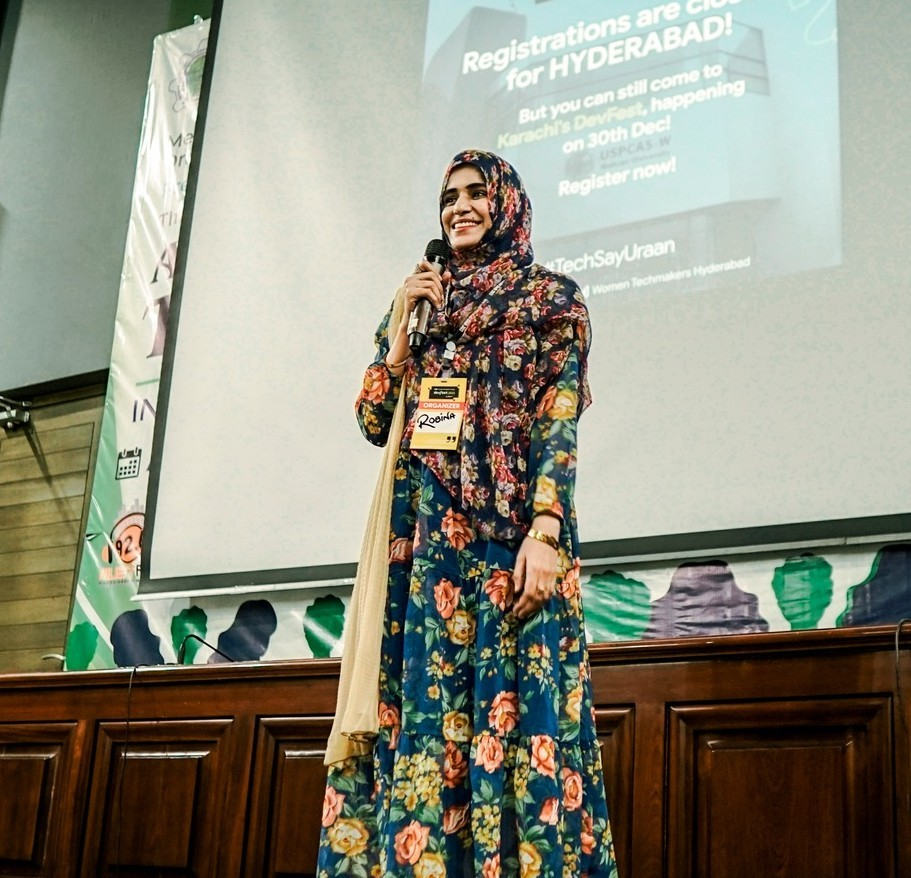
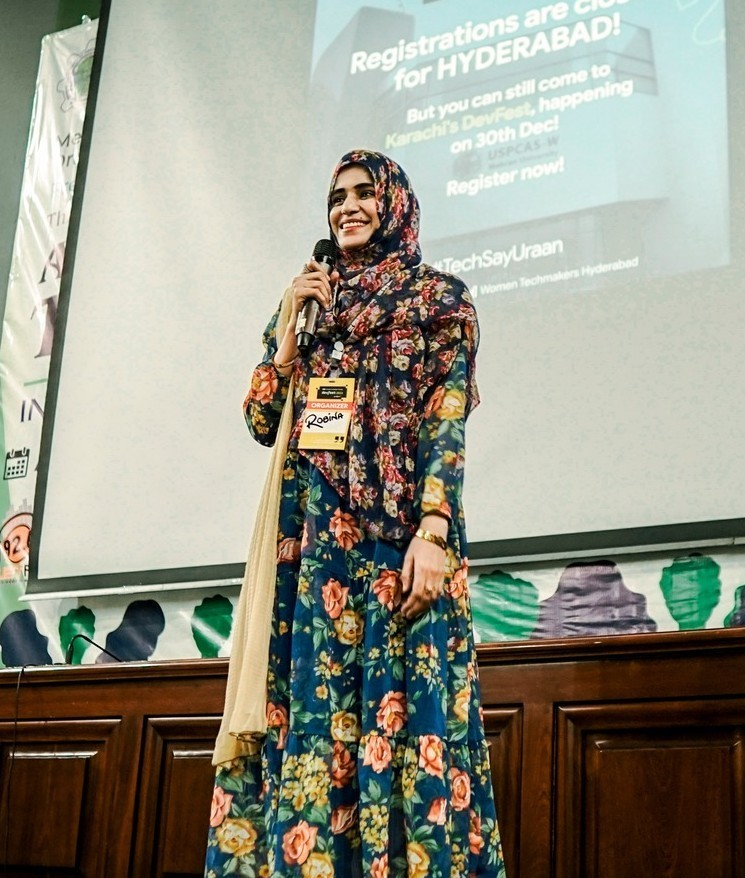
Update: Added heart and link to Hasnain KK in footer

diff --git a/src/data.js b/src/data.js
@@ -1,4 +1,7 @@
 import robinaImg from './WTM Events Pictures/Robina Picture/Robina Mirbahar.jpg';
+import hasnainImg from './WTM Events Pictures/IWD 26 Team/Hasnain KK.jpeg';
+import tunhinaImg from './WTM Events Pictures/IWD 26 Team/Tunhina.jpeg';
+import hurainImg from './WTM Events Pictures/IWD 26 Team/Hurain.jpeg';
 import iwd26Img from './WTM Events Pictures/IWD26/Event lookup.jpg';
 import impactFutureImg from './WTM Events Pictures/RAH00576.jpg';
 import accelerateActionImg from './WTM Events Pictures/478403869_596286476700737_8847670728925164592_n.jpg';
@@ -24,7 +27,7 @@ export const sharedTeamData = [
     role: 'Organizer',
     gender: 'male',
     bio: 'Hasnain is a technical architect overseeing the expansion of Women Techmakers Hyderabad. His focus is on establishing robust technical pipelines and promoting inclusive leadership across Sindh. He is deeply committed to empowering juniors and mapping community growth with real-world developer tools.',
-    photoUrl: 'https://ui-avatars.com/api/?name=Hasnain+KK&background=EAEAEA&color=4285F4&size=400&bold=true',
+    photoUrl: hasnainImg,
     socials: [
       { platform: 'LinkedIn', url: '#' },
       { platform: 'GitHub', url: '#' }
@@ -32,12 +35,12 @@ export const sharedTeamData = [
   },
   {
     id: 3,
-    slug: 'tunjina',
-    name: 'Tunjina',
+    slug: 'tunhina',
+    name: 'Tunhina',
     role: 'Organizer',
     gender: 'female',
-    bio: 'Tunjina serves as a lead organizer for Women Techmakers Hyderabad, focusing on community outreach and educational curriculum design. She is passionate about closing the gender gap in technology through accessible mentorship and technical skill-sharing.',
-    photoUrl: 'https://ui-avatars.com/api/?name=Tunjina&background=EAEAEA&color=00C4A3&size=400&bold=true',
+    bio: 'Tunhina serves as a lead organizer for Women Techmakers Hyderabad, focusing on community outreach and educational curriculum design. She is passionate about closing the gender gap in technology through accessible mentorship and technical skill-sharing.',
+    photoUrl: tunhinaImg,
     socials: [
       { platform: 'LinkedIn', url: '#' }
     ]
@@ -49,7 +52,7 @@ export const sharedTeamData = [
     role: 'Organizer',
     gender: 'female',
     bio: 'Hurain is a core organizer at WTM Hyderabad, facilitating large-scale technical gatherings and local meetups. She works on optimizing the attendee experience and ensuring every event fosters a culture of inclusivity and professional growth.',
-    photoUrl: 'https://ui-avatars.com/api/?name=Hurain&background=EAEAEA&color=1967D2&size=400&bold=true',
+    photoUrl: hurainImg,
     socials: [
       { platform: 'LinkedIn', url: '#' }
     ]

diff --git a/src/components/layout/Footer.jsx b/src/components/layout/Footer.jsx
@@ -77,7 +77,7 @@ const Footer = () => {
 
         <div className="footer-bottom" style={{ borderTop: '1px solid var(--surface-border)', paddingTop: '32px', display: 'flex', justifyContent: 'space-between', alignItems: 'center', flexWrap: 'wrap', gap: '16px' }}>
           <span className="text-overline" style={{ color: 'var(--text-secondary)', fontSize: '0.875rem' }}>© 2026 Women Techmakers Hyderabad</span>
-          <span className="text-overline" style={{ color: 'var(--text-primary)', fontSize: '0.875rem' }}>Built by Hasnain KK</span>
+          <span className="text-overline" style={{ color: 'var(--text-primary)', fontSize: '0.875rem' }}>Built with <span style={{ color: 'var(--deep-blue)' }}>❤</span> by <a href="https://www.linkedin.com/in/hasnainkk" target="_blank" rel="noreferrer" style={{ color: '#0077b5', fontWeight: 'bold' }}>Hasnain KK</a></span>
         </div>
       </div>
     </footer>
